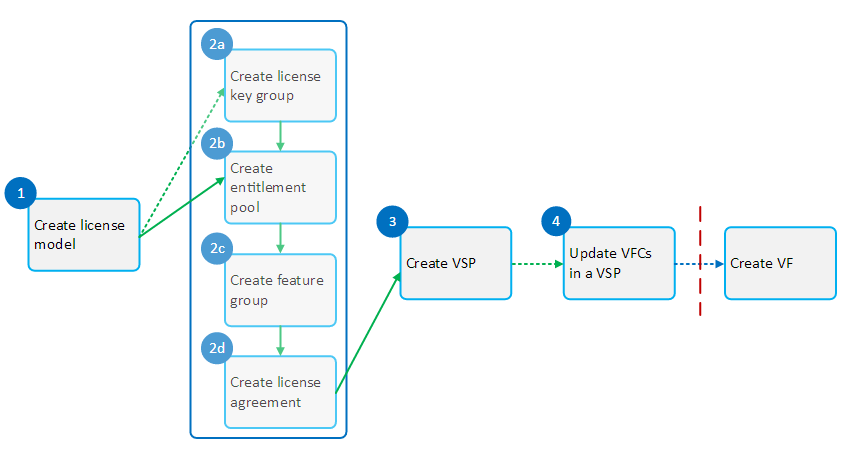
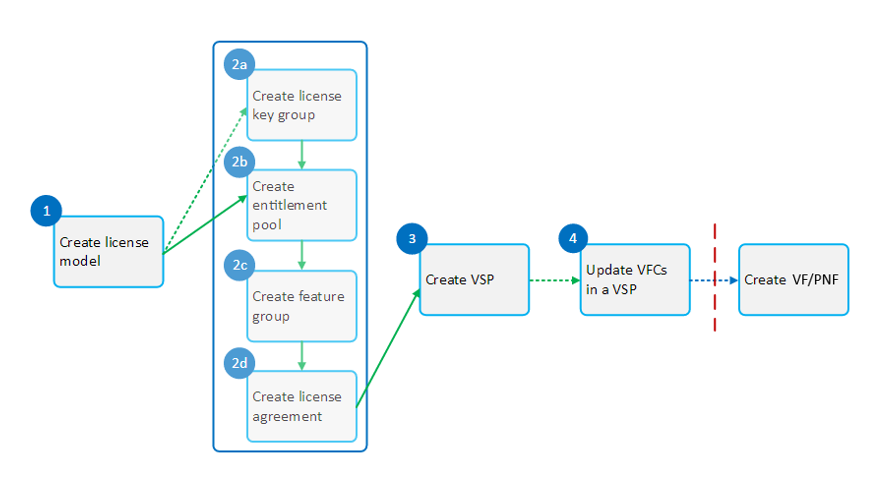
Updating documentation on SDC onboarding package types in "Design" pages
Issue-ID: DOC-521

Changed region(s): [[0.0, 0.0302, 0.9942, 0.9655]]

diff --git a/docs/guides/onap-user/design/resource-onboarding/index.rst b/docs/guides/onap-user/design/resource-onboarding/index.rst
@@ -7,7 +7,7 @@
 Resource Onboarding
 ===================
 **Goal:** Add models and other artifacts required to create, configure,
-          instantiate, and manage a VF and, optionally, a VFC.
+          instantiate, and manage a VF/PNF and, optionally, a VFC.
 
 **Tool:** SDC
 
@@ -26,8 +26,8 @@ Resource Onboarding
     * `Update a VSP [optional]`_
 
 After updating the artifacts in a VSP, also update:
-    * the VF created from the VSP
-    * any services that include the VF
+    * the VF/PNF created from the VSP
+    * any services that include the VF/PNF
 
 |image1|
 
@@ -69,7 +69,7 @@ click |image2|
 #. Click *Submit* to add the license model to the catalog. A success message
    displays.
 #. After creating a license, complete `Create a Vendor Software Product`_ to
-   add the VSP required for the associated VF.
+   add the VSP required for the associated VF/PNF.
 
 Create a License Key Group [Optional]
 -------------------------------------
@@ -151,7 +151,7 @@ Create a Vendor Software Product
 --------------------------------
 
 Create one or more Vendor Software Products (VSPs) as the building blocks
-for VFs.
+for VFs/PNFs.
 
 .. note::
    For interim saving while creating a VSP, click |image2|
@@ -159,7 +159,11 @@ for VFs.
 **Prerequisites:**
 
 * `Create a License Model`_
-* Existing VNF HEAT package or VNF/PNF CSAR/Zip package
+* VNF HEAT package or VNF/PNF CSAR/Zip package is available.
+
+  See :ref:`sdc_onboarding_package_types` for a description
+  of the onboarding package types.
+* If the package is a secure package then :ref:`pre-install the corresponding Root Certificate in SDC <doc_guide_user_des_res-onb_pre-install_root_certificate>`.
 
 #. From the SDC HOME page, click *ONBOARD*.
 #. Hover over Add and select New Vendor Software Product.
@@ -183,6 +187,7 @@ for VFs.
    as required.
 #. In Software Product Attachments (right pane), click *Select file*.
 #. In case of a VNF HEAT file: Locate the Heat .zip package and click *Open*.
+
    In case of a VNF or PNF CSAR file: Locate the VNF or PNF csar/.zip package
    and click *Open*.
 #. SDC validates the files in the package. After successful validation, SDC
@@ -251,7 +256,7 @@ on the Components tab.
 Update a VSP [optional]
 -----------------------
 
-Upload a new Heat package to a VSP. Afterward, update the VF and service.
+Upload a new onboarding package to a VSP. Afterward, update the VF/PNF and service.
 
 **Prerequisites:** Add one or more VSPs
                    (see `Create a Vendor Software Product`_).
@@ -273,16 +278,41 @@ Upload a new Heat package to a VSP. Afterward, update the VF and service.
    .. note::
      If the Heat template contains errors, contact the Certification Group for
      guidance on how to proceed.
-
 #. Click *Check In* to save changes.
 #. Click *Submit* to add the VSP to the catalog.
     A success message is displayed. If the VSP attachments contain errors, an
     error message is displayed instead. Fix the issue(s) and re-submit.
 #. After updating the VSP:
-    #. Upload the VSP to the VF
-       (see steps 3 to 5 in :ref:`doc_guide_user_des_vf-cre`).
-    #. Update the VF version in services that include the VF (see step 4
+
+   #. Upload the VSP to the Vf/PNF
+      (see steps 3 to 5 in :ref:`doc_guide_user_des_vf-cre`).
+   #. Update the VF/PNF version in services that include the VF/PNF (see step 4
        in :ref:`doc_guide_user_des_ser-des`).
+
+.. _doc_guide_user_des_res-onb_pre-install_root_certificate:
+
+Pre-Install Root Certificate in SDC [only needed for secure package]
+--------------------------------------------------------------------
+SDC supports the onboarding of packages that are secured according to security option 2 in ETSI NFV-SOL 004v2.6.1.
+
+During onboarding, SDC will validate the authenticity and integrity of a secure package. To enable this validation,
+the root certificate corresponding to the certificate included in the package needs to be available to SDC.
+This is currently done by uploading the root certificate to the following default directory location::
+
+   /dockerdata-nfs/{{ .Release.Name }}/sdc/onbaording/cert
+
+.. note::
+   The directory listed above is mapped to the following directory in the onboarding pod (sdc-onboarding-be)
+   ::
+
+      /var/lib/jetty/cert
+
+   so it is also possible to copy the root certificate directly to this directory in the pod.
+
+The location where the root certificate is uploaded is configurable. The relevant parameters are described in
+the *cert* block in the following values file::
+
+   <path_to_oom_kubernetes>/sdc/charts/sdc-onboarding-be/values.yaml
 
 
 .. |image0| image:: media/sdro-resource-onboarding-workflow.png

diff --git a/docs/guides/onap-user/design/vfcreation/index.rst b/docs/guides/onap-user/design/vfcreation/index.rst
@@ -4,10 +4,10 @@
 
 .. _doc_guide_user_des_vf-cre:
 
-VF Creation and Testing
-=======================
-**Goal**: Using VSPs, create one or more VFs as the building blocks for a
-service. Validate and certify the VFs.
+VF/PNF Creation and Testing
+===========================
+**Goal**: Using VSPs, create one or more VFs/PNFs as the building blocks for a
+service. Validate and certify the VFs/PNFs.
 
 **ONAP Component**: SDC
 
@@ -40,13 +40,13 @@ Create a VF/PNF by VSP import
 
    |image2|
 
-#. From the *Import VF* box, expand a VSP name and click the *Import VSP* icon.
+#. From the *Import VSP* box, expand a VSP name and click the *Import VSP* icon.
 
    |image3|
 
 #. In the General section, complete all fields.
 
-   .. note:: Use the letters "VF" or "PNF" in the name to indicate that the
+   .. note:: Use the letters "VF" or "PNF" in the name to indicate the
              component type.
 
 #. Click *Create*.
@@ -66,7 +66,7 @@ Create a VF/PNF by VSP import
 #. [Optional]  At any time before submitting the VF/PNF for testing, click
    these options to update VF/PNF information:
 
-   .. note:: These tasks can be done only before submitting the VF for testing.
+   .. note:: These tasks can be done only before submitting the VF/PNF for testing.
 
    - **Icon** change the icon associated with the VF/PNF (vendor-supplied icons
      are preferred)
@@ -145,11 +145,11 @@ Create a VF/PNF manually
 Update a VF/PNF [optional]
 --------------------------
 
-- Update the VSP and other artifacts in a VF.
-- Upload a new version the VSP to the VF whenever the VSP is updated (see steps
-  3 to 5). Other reasons for updating a VF include:
+- Update the VSP and other artifacts in a VF/PNF.
+- Upload a new version the VSP to the VF/PNF whenever the VSP is updated (see steps
+  3 to 5). Other reasons for updating a VF/PNF include:
 
-  - artifact changes at the VF level that need be uploaded, for example,
+  - artifact changes at the VF/PNF level that need be uploaded, for example,
     changes to ENV values (see step 6)
 
 **Prerequisites:**
@@ -159,13 +159,13 @@ Update a VF/PNF [optional]
 
 **Steps**
 
-#. From the SDC HOME page, click *CATALOG* and search for a VF.
+#. From the SDC HOME page, click *CATALOG* and search for a VF/PNF.
 
 #. In the General section, click *Check Out*.
    The Select VSP field is displays.
 
 #. In the Select VSP field, click *Browse*.
-   The Import VF box displays and shows the VSP that was used to create the VF.
+   The Import VSP box displays and shows the VSP that was used to create the VF/PNF.
 
 #. Expand the VSP field and click.
 
@@ -182,10 +182,10 @@ Update a VF/PNF [optional]
 
 #. Click *Check In* to save changes.
 
-#. After updating the VF:
+#. After updating the VF/PNF:
 
-   - Submit the VF for testing (see `Submit for testing`_).
-   - Update the VF version in any service that contains the VF
+   - Submit the VF/PNF for testing (see `Submit for testing`_).
+   - Update the VF/PNF version in any service that contains the VF/PNF
      (see step 4 in Update a service [optional]).
 
 .. _doc_guide_user_des_vf-cre_sub-tst:
@@ -227,9 +227,9 @@ Test the design and artifacts of a VF/PNF.
 
 #. Sign in to SDC as a *Tester*.
 #. From the HOME page, select *Ready For Testing* under Active Projects.
-#. In the right pane, click the VF.
+#. In the right pane, click the VF/PNF.
 #. Click *Start Testing*.
-#. Test the VF.
+#. Test the VF/PNF.
 #. When testing is complete, click *Accept*.
 
 .. |image1| image:: media/design_vf_workflow.png
